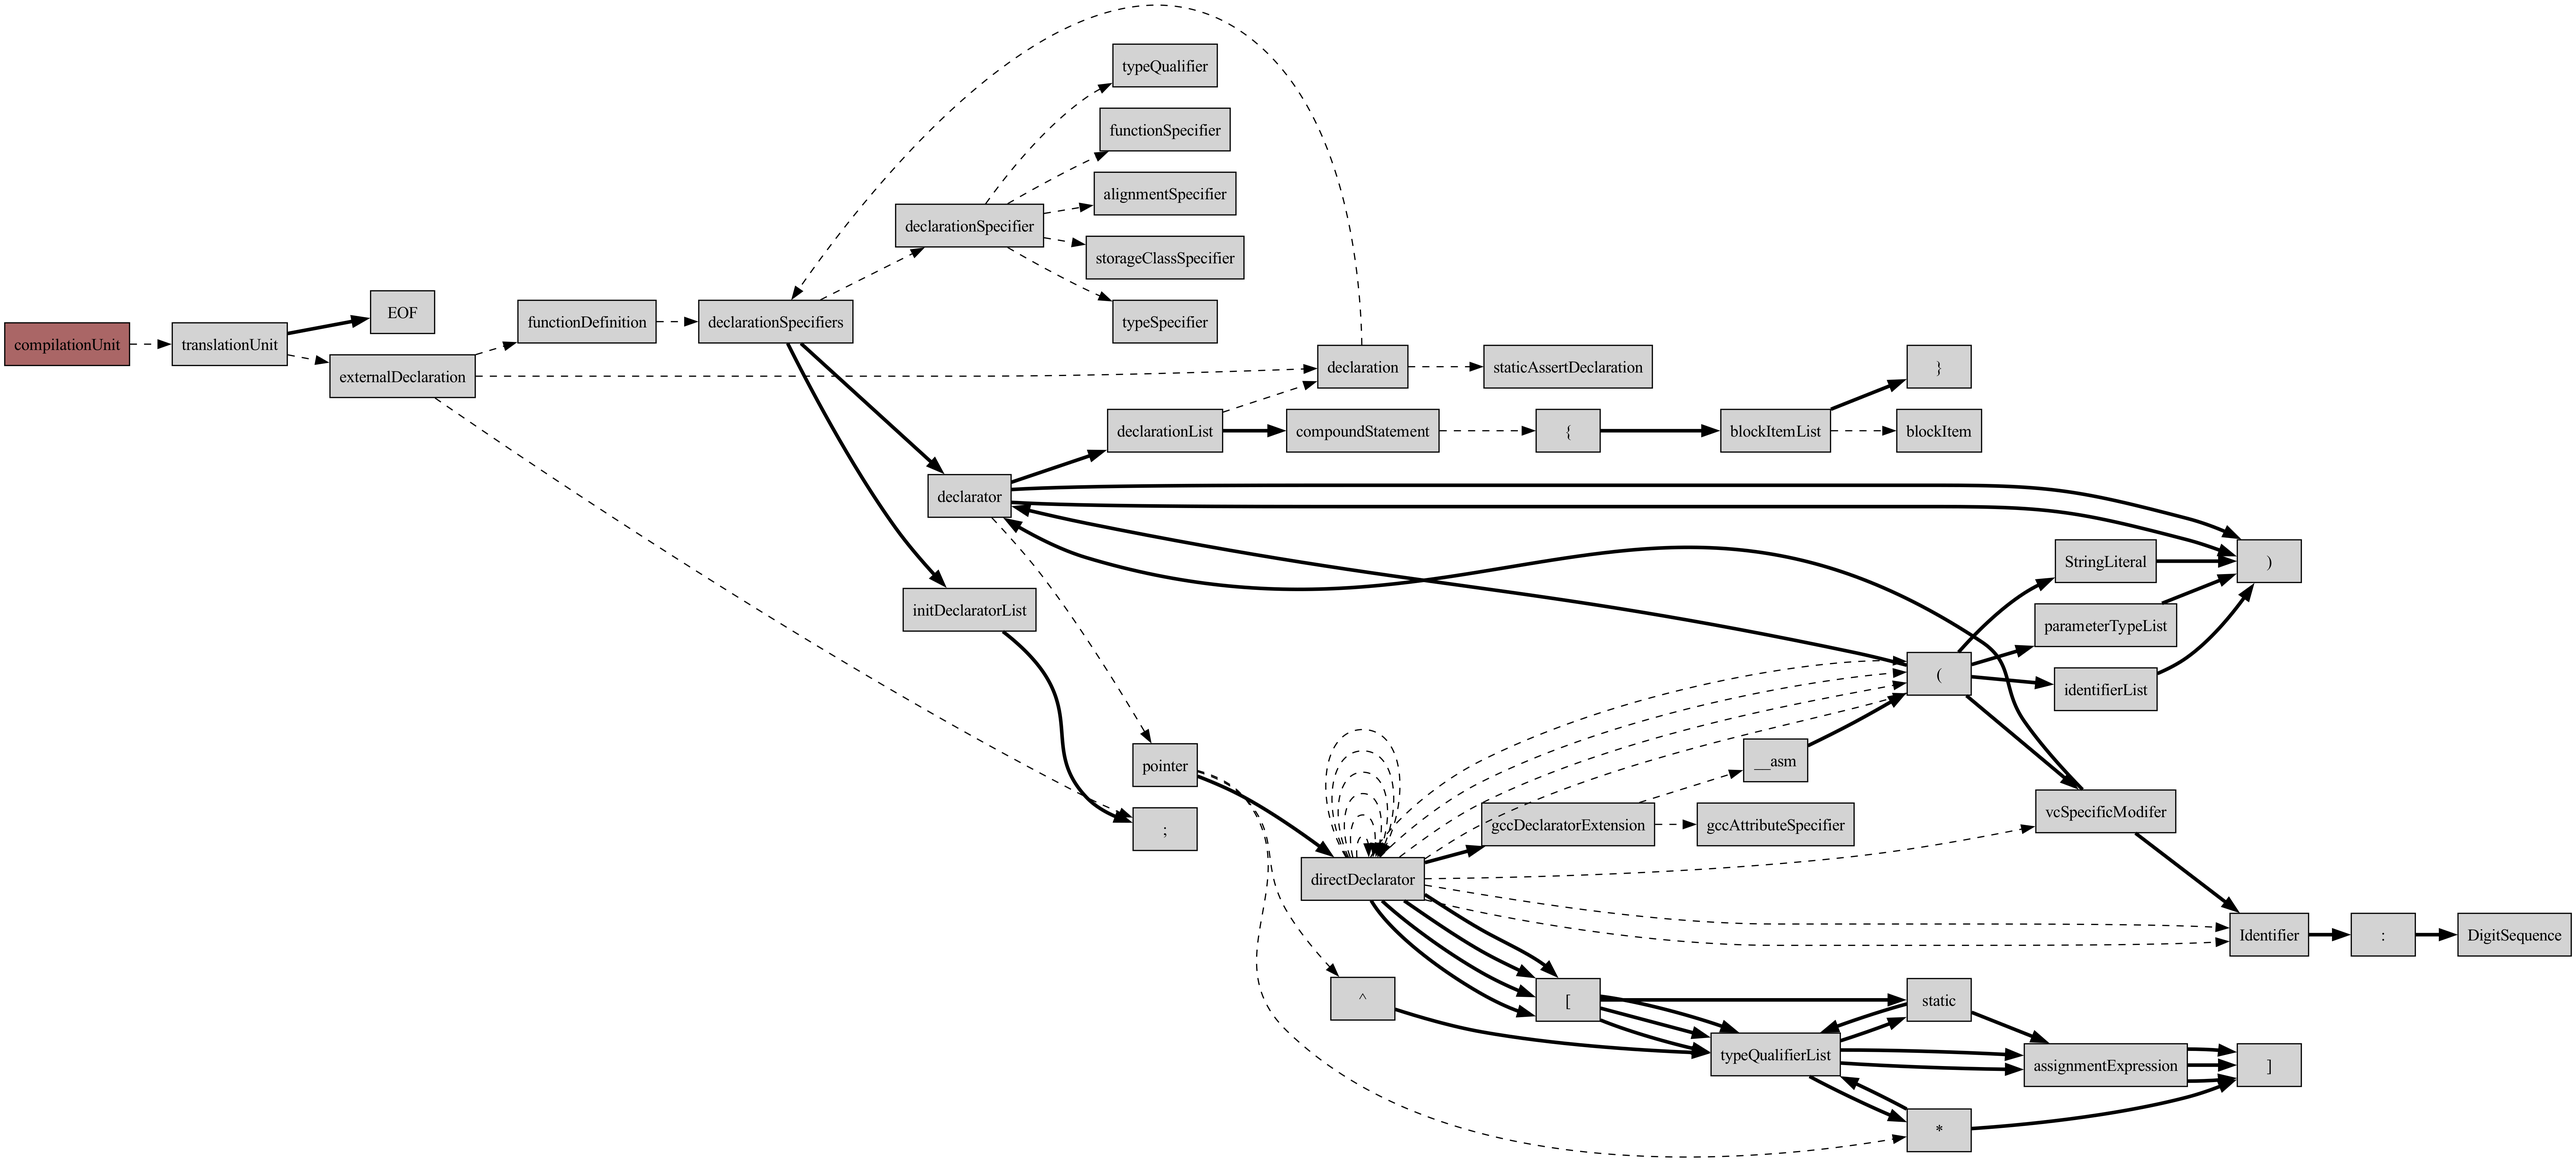
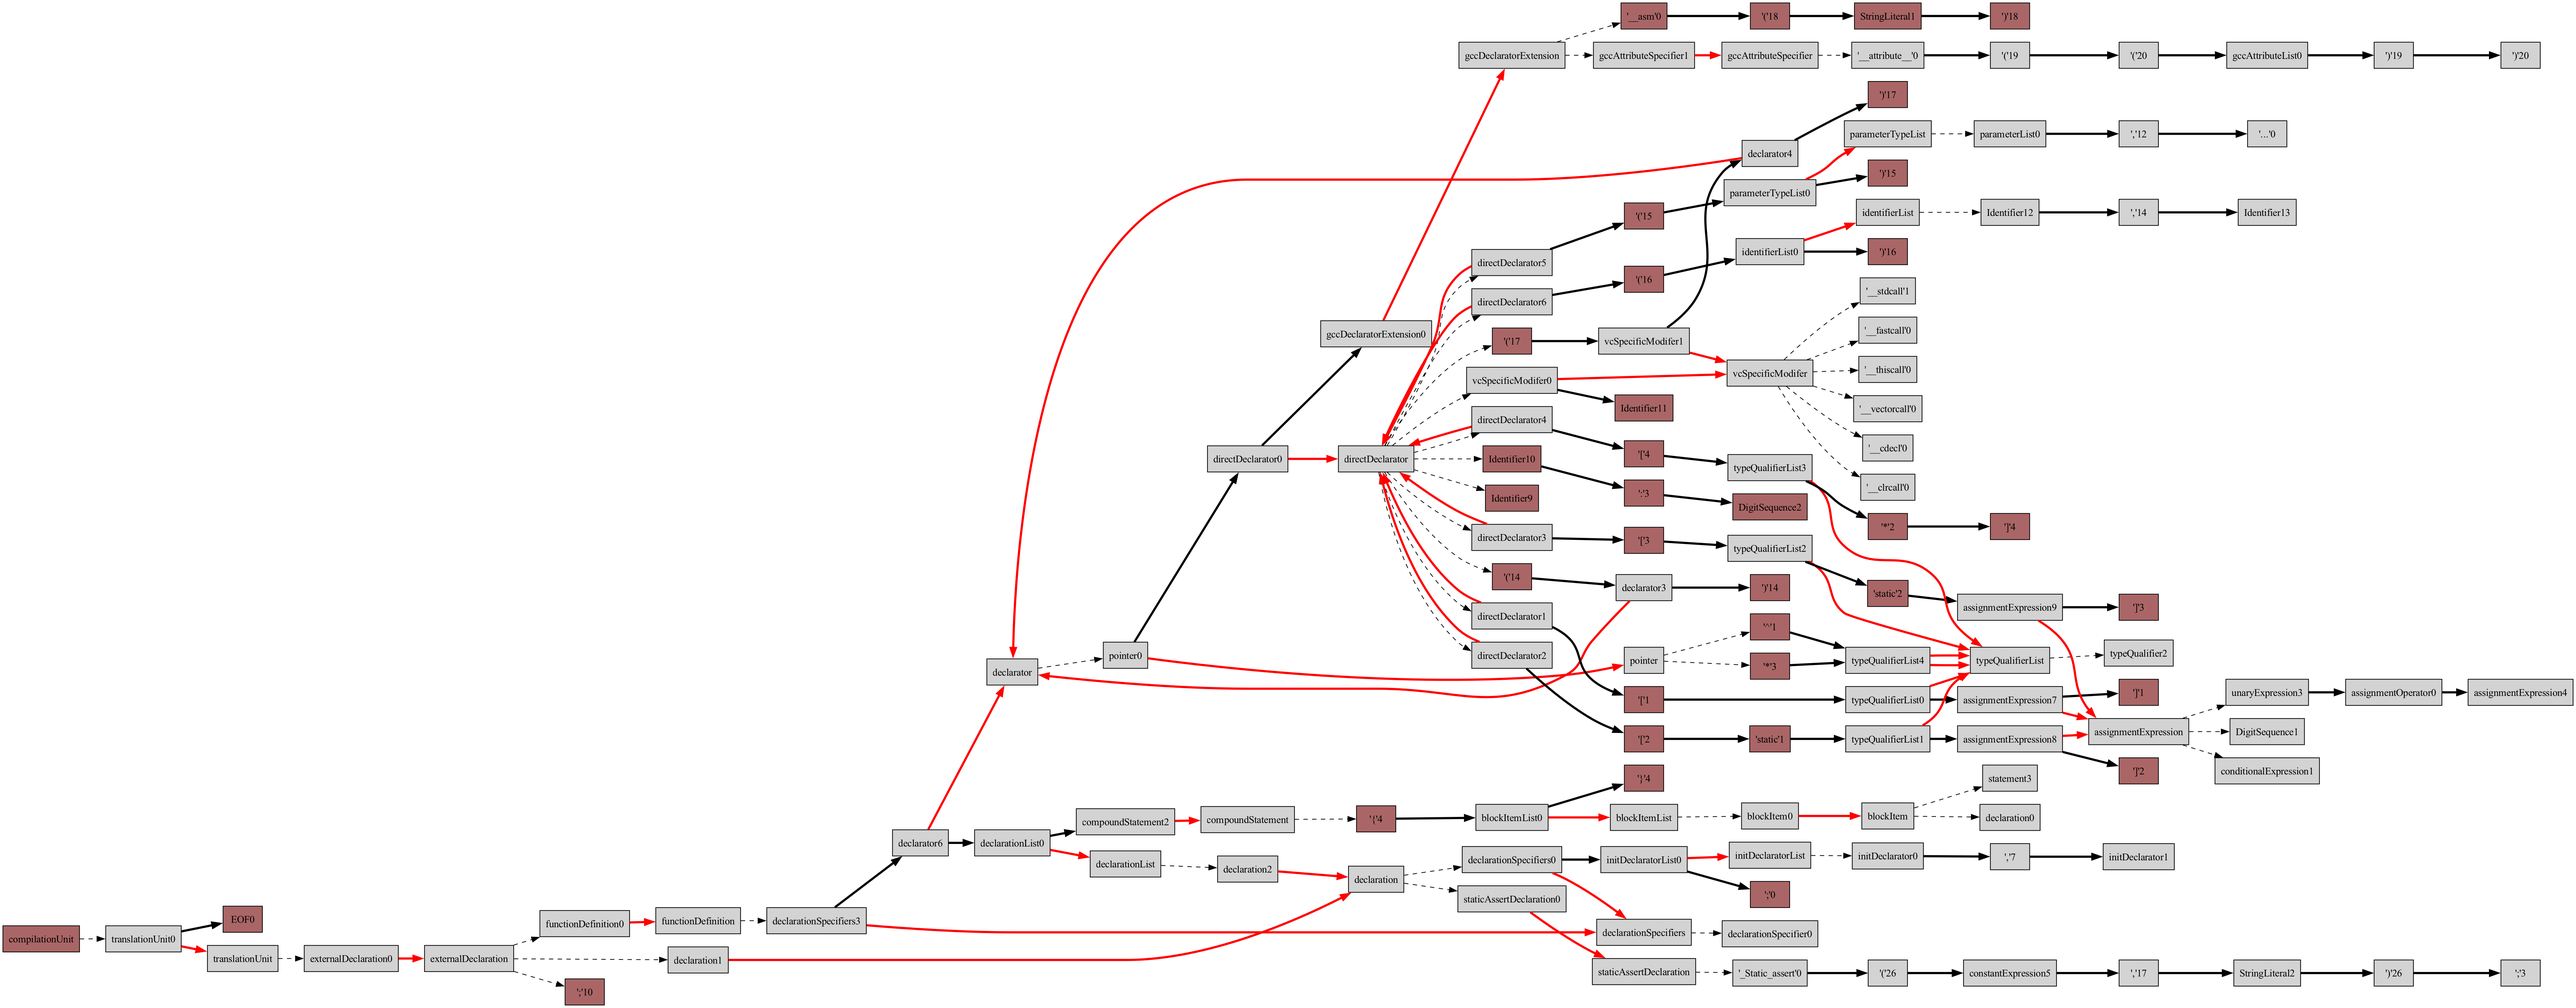
fix bug

diff --git a/src/parserToGraph.py b/src/parserToGraph.py
@@ -11,14 +11,24 @@ starting_node_color = '#aa6666'
 
 
 class TranslateToDotVisitor(ANTLRv4ParserVisitor):
-    skipping_element = ['nls', 'NL', 'sep', 'SEMI']
+    skipping_element = []
     grammar_name = None
     current_rule_head = None
     grammar_map = defaultdict(list)
     rule_start_edge = defaultdict(list)
-    terminal_node = []
     terminal_node_under_tree = []
     done_rule_under_head = defaultdict(list)
+    instance_list = defaultdict(list)
+    instance_to_rule_head = {}
+
+    def new_rule_head_instance(self, rule_head, use_quote=False):
+        if use_quote:
+            rule_head_instance = '"' + rule_head + str(len(self.instance_list[rule_head])) + '"'
+        else:
+            rule_head_instance = rule_head + str(len(self.instance_list[rule_head]))
+        self.instance_list[rule_head].append(rule_head_instance)
+        self.instance_to_rule_head[rule_head_instance] = f'"{rule_head}"' if use_quote else rule_head
+        return rule_head_instance
 
     def visitGrammarSpec(self, ctx: ANTLRv4Parser.GrammarSpecContext):
         self.grammar_name = ctx.grammarDecl().identifier().getText()
@@ -112,26 +122,30 @@ class TranslateToDotVisitor(ANTLRv4ParserVisitor):
     def visitAtom(self, ctx: ANTLRv4Parser.AtomContext):
         if ctx.terminalDef():
             if ctx.terminalDef().TOKEN_REF():
-                return ctx.terminalDef().TOKEN_REF().getText()
+                return self.new_rule_head_instance(ctx.terminalDef().TOKEN_REF().getText())
             else:
-                return ctx.terminalDef().STRING_LITERAL().getText().replace("'", '"')
+                return self.new_rule_head_instance(ctx.terminalDef().STRING_LITERAL().getText(), True)
         elif ctx.ruleref():
-            return ctx.ruleref().RULE_REF().getText()
+            return self.new_rule_head_instance(ctx.ruleref().RULE_REF().getText())
+        elif ctx.notSet():
+            return self.new_rule_head_instance(ctx.getText(), True)
         return ''
 
     def get_edge_of_tree(self, rule_head, tree_head, edges, max_depth, depth):
         if rule_head in self.done_rule_under_head and tree_head in self.done_rule_under_head[rule_head]:
             return
         self.done_rule_under_head[rule_head].append(tree_head)
-        if tree_head in self.terminal_node:
-            self.terminal_node_under_tree.append(tree_head)
         if tree_head in self.grammar_map:
             for rule_head_i, vi in self.grammar_map[tree_head]:
                 if rule_head == rule_head_i:
                     edges.append([tree_head, vi])
                     self.get_edge_of_tree(rule_head, vi, edges, max_depth, depth)
                     if depth <= max_depth:
-                        self.get_edge_of_tree(vi, vi, edges, max_depth, depth + 1)
+                        if self.instance_to_rule_head[vi] in self.grammar_map:
+                            edges.append([vi, self.instance_to_rule_head[vi]])
+                        else:
+                            self.terminal_node_under_tree.append(vi)
+                        self.get_edge_of_tree(self.instance_to_rule_head[vi], self.instance_to_rule_head[vi], edges, max_depth, depth + 1)
 
     def to_dot_str(self, start_rule, depth):
         dot_str = '''digraph G {
@@ -146,6 +160,8 @@ class TranslateToDotVisitor(ANTLRv4ParserVisitor):
         for edge in edges:
             if edge[0] in self.rule_start_edge and edge[1] in self.rule_start_edge[edge[0]]:
                 dot_str += f'{edge[0]} -> {edge[1]} [style=dashed];\n'
+            elif edge[0] in self.instance_to_rule_head and edge[1] == self.instance_to_rule_head[edge[0]]:
+                dot_str += f'{edge[0]} -> {edge[1]} [penwidth=3.0,color=red];\n'
             else:
                 dot_str += f'{edge[0]} -> {edge[1]} [penwidth=3.0];\n'
         # special color for special node
@@ -180,4 +196,4 @@ def main(file_path, start_rule, depth):
 
 
 if __name__ == '__main__':
-    main("../grammars/C.g4", 'compilationUnit', 5)
+    main("../grammars/C.g4", 'compilationUnit', 6)
